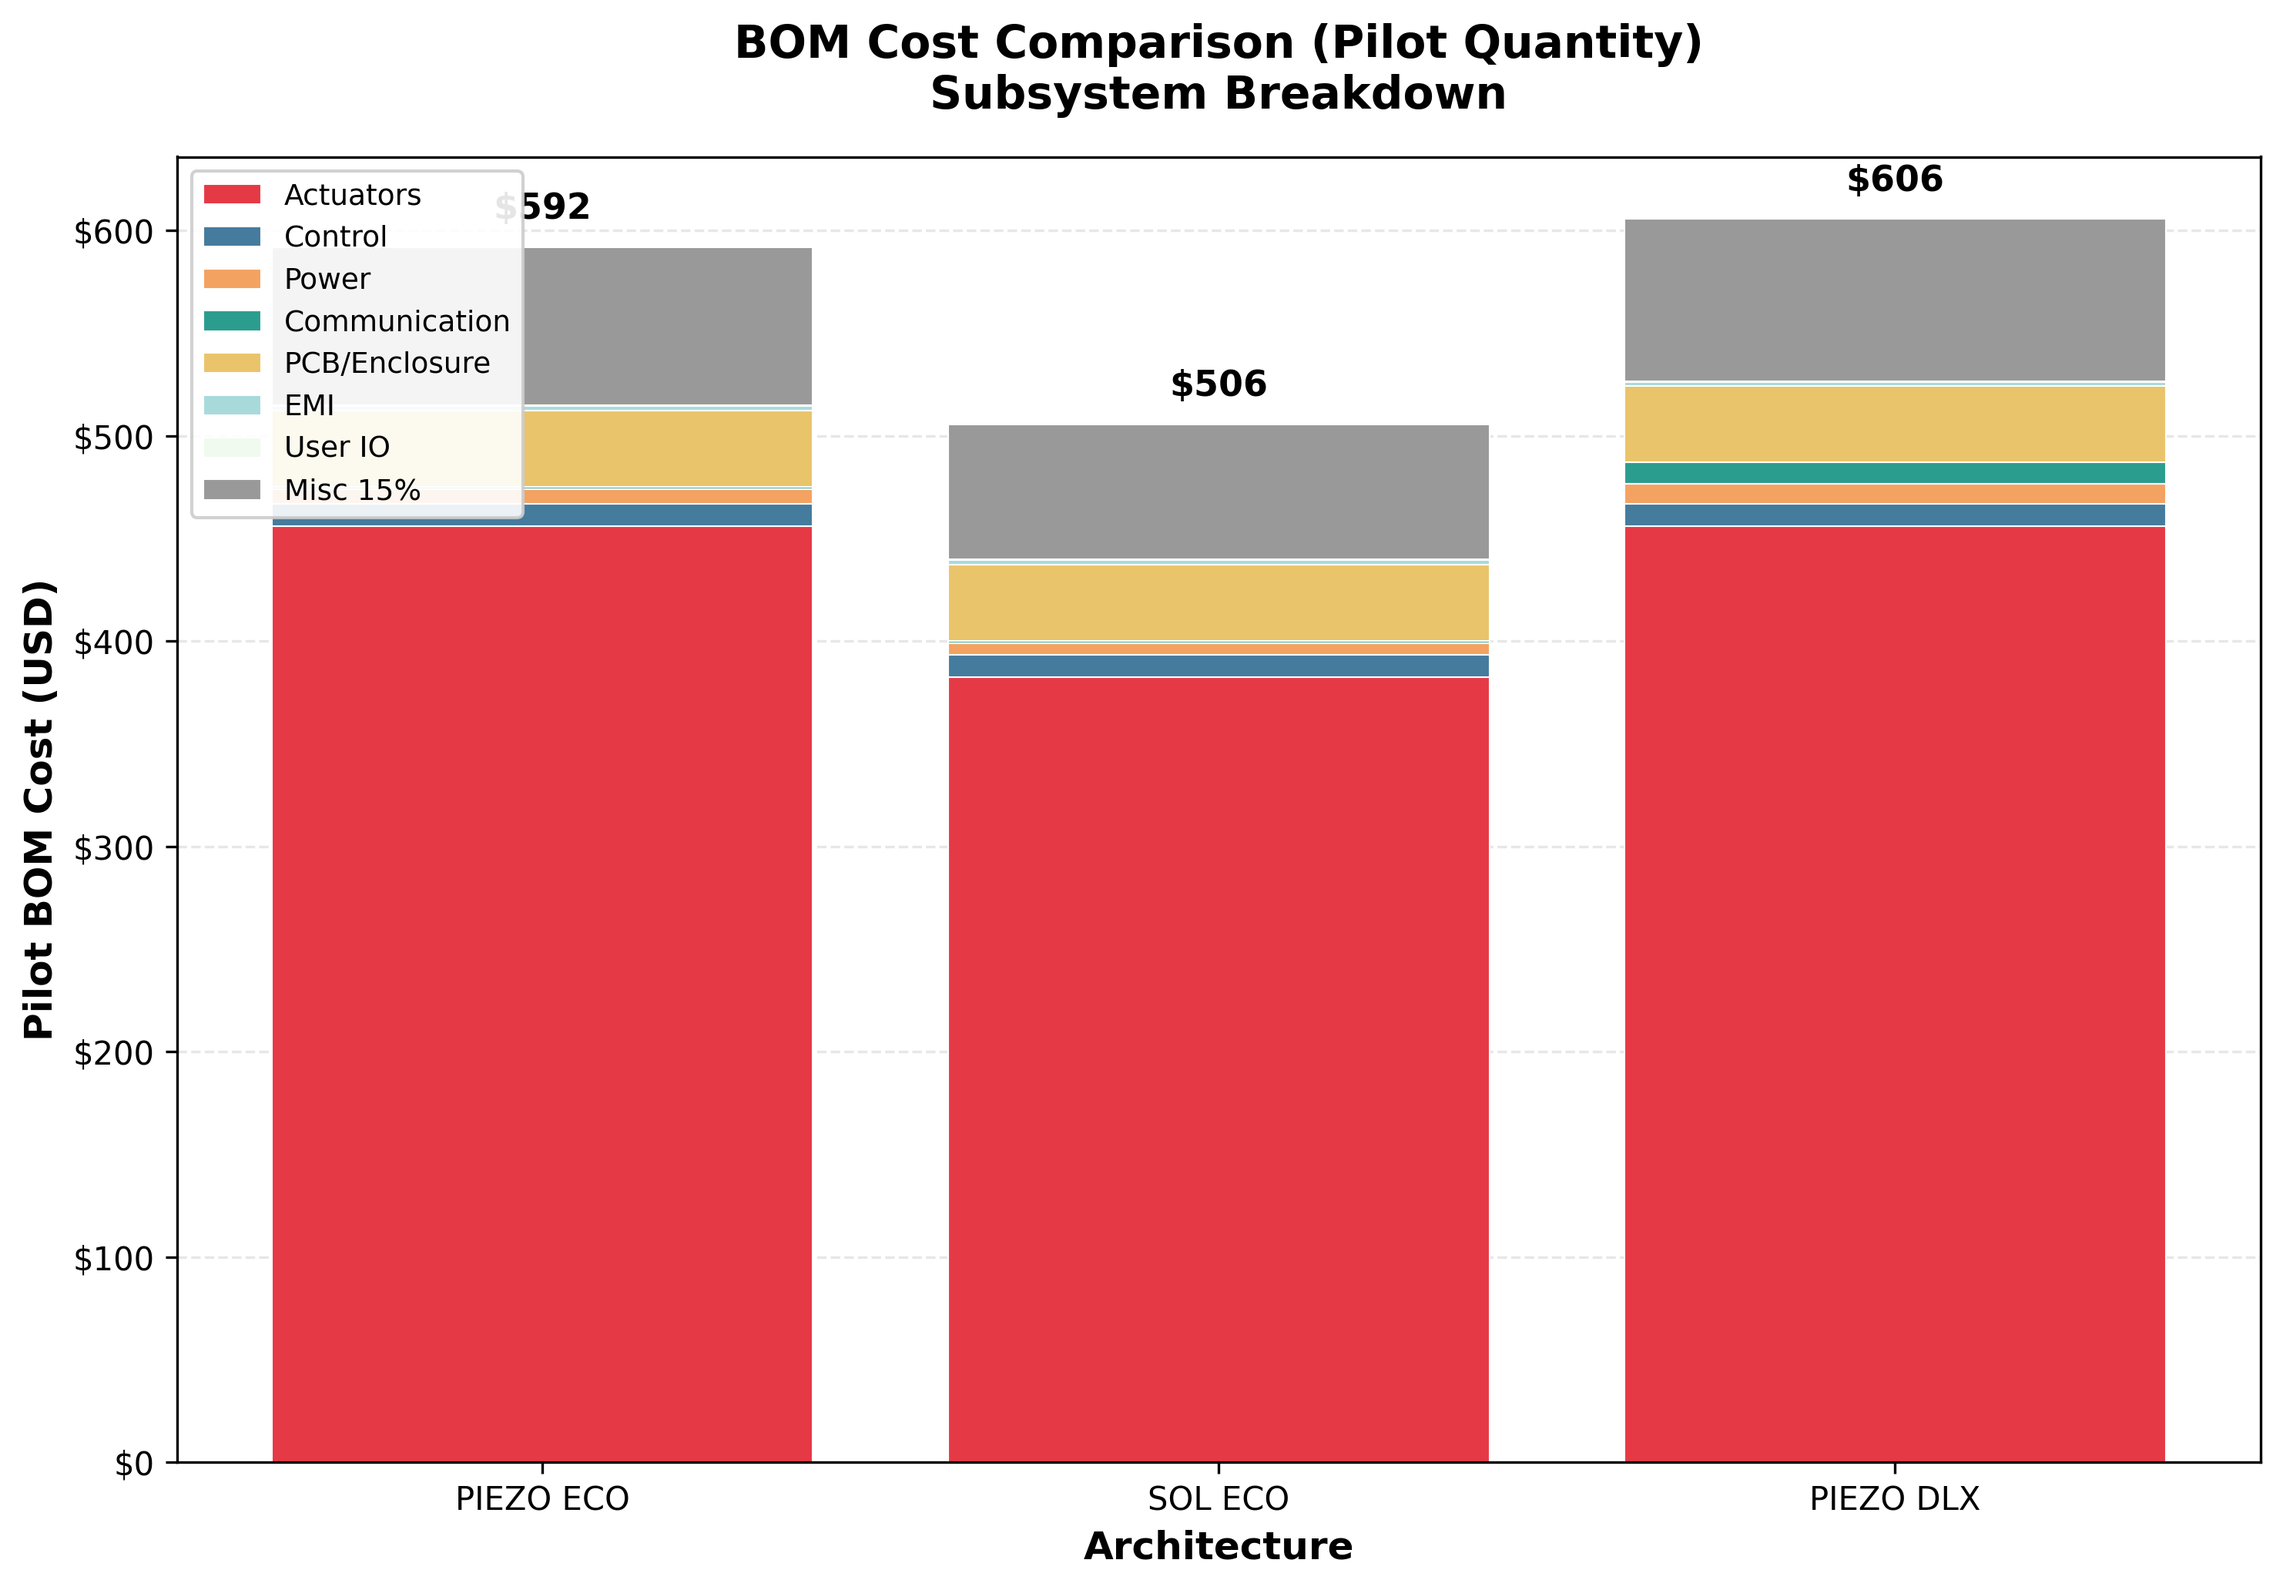
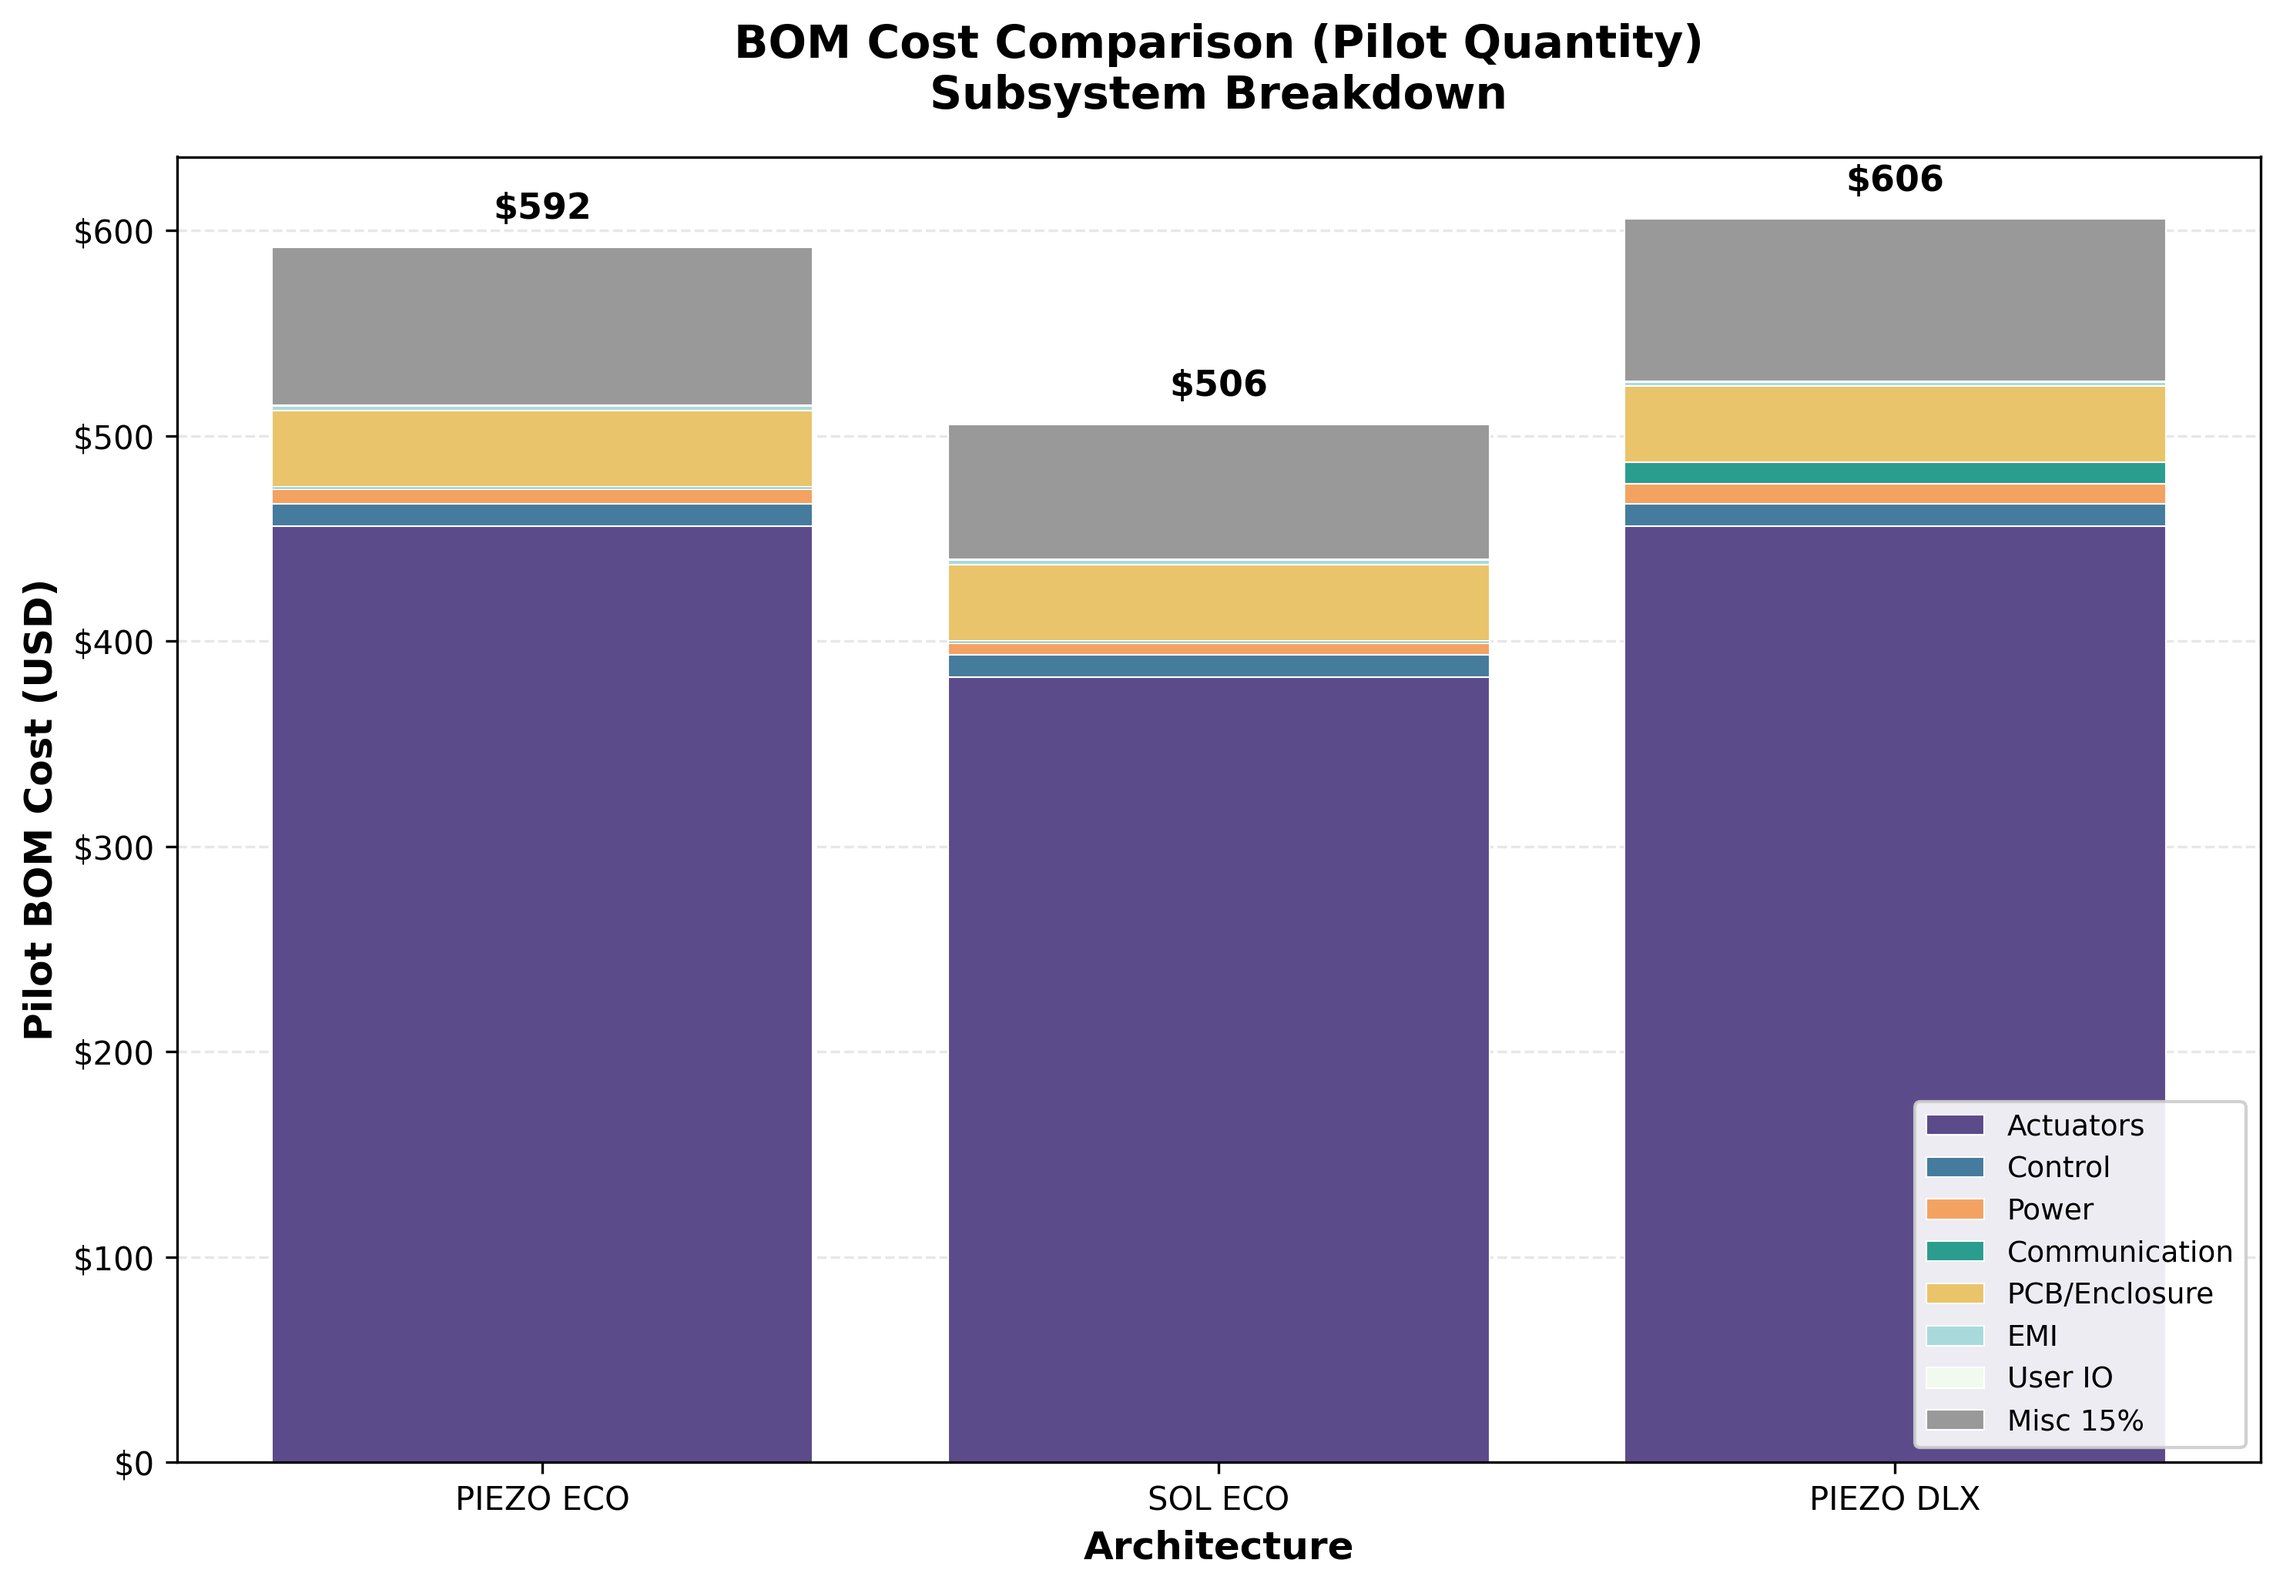
refactor(charts): Improve cost chart aesthetics - purple actuators, bottom-right legend
Changes to scripts/generate_tradeoff_charts.py:
- Changed Actuators color from red (#E63946) to deep purple (#5B4B8A)
  More aesthetically pleasing and colorblind-safe
- Moved legend from upper left to lower right corner
  Better layout, doesn't overlap with data

Result: Cleaner, more professional-looking cost breakdown chart
with subsystem categories clearly visible.

🤖 Generated with [Claude Code](https://claude.com/claude-code)

diff --git a/scripts/generate_tradeoff_charts.py b/scripts/generate_tradeoff_charts.py
@@ -432,9 +432,9 @@ def generate_cost_chart(architectures, output_path):
     # Create figure
     fig, ax = plt.subplots(figsize=(10, 7))
 
-    # Color scheme for subsystems
+    # Color scheme for subsystems (colorblind-safe, aesthetically pleasing)
     subsys_colors = {
-        "Actuators": "#E63946",      # Red (largest cost driver)
+        "Actuators": "#5B4B8A",      # Deep purple (largest cost driver)
         "Control": "#457B9D",        # Blue
         "Power": "#F4A261",          # Orange
         "Communication": "#2A9D8F",  # Teal
@@ -464,7 +464,7 @@ def generate_cost_chart(architectures, output_path):
     ax.set_title('BOM Cost Comparison (Pilot Quantity)\nSubsystem Breakdown', fontsize=14, weight='bold', pad=15)
     ax.grid(axis='y', linestyle='--', alpha=0.3)
     ax.set_axisbelow(True)
-    ax.legend(loc='upper left', fontsize=9, framealpha=0.9)
+    ax.legend(loc='lower right', fontsize=9, framealpha=0.9)
 
     # Format y-axis as currency
     ax.yaxis.set_major_formatter(plt.FuncFormatter(lambda x, p: f'${x:.0f}'))
